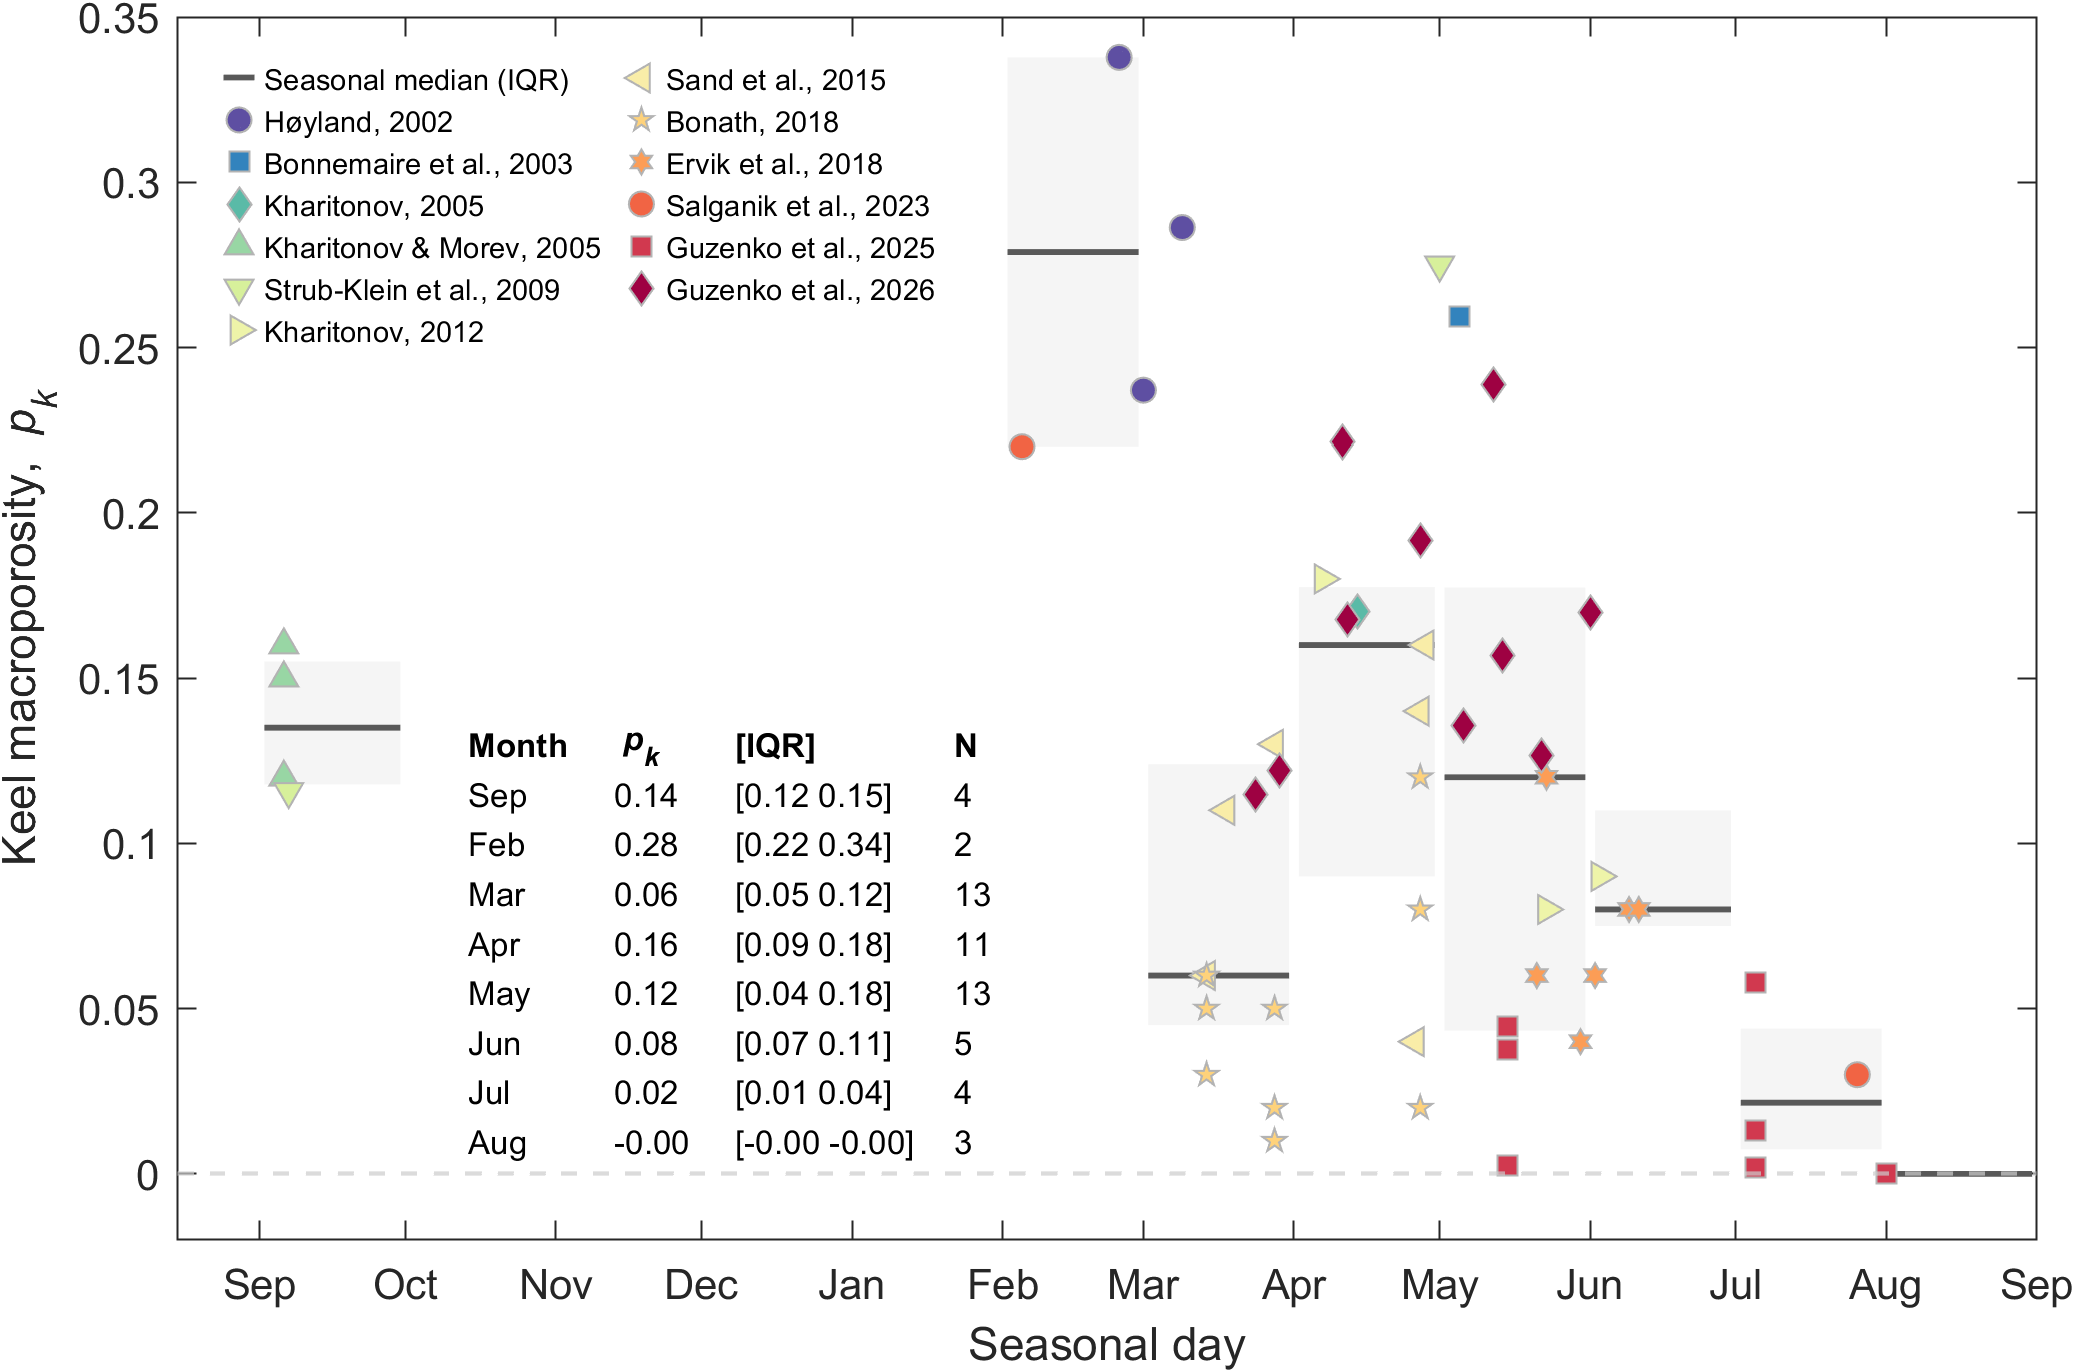
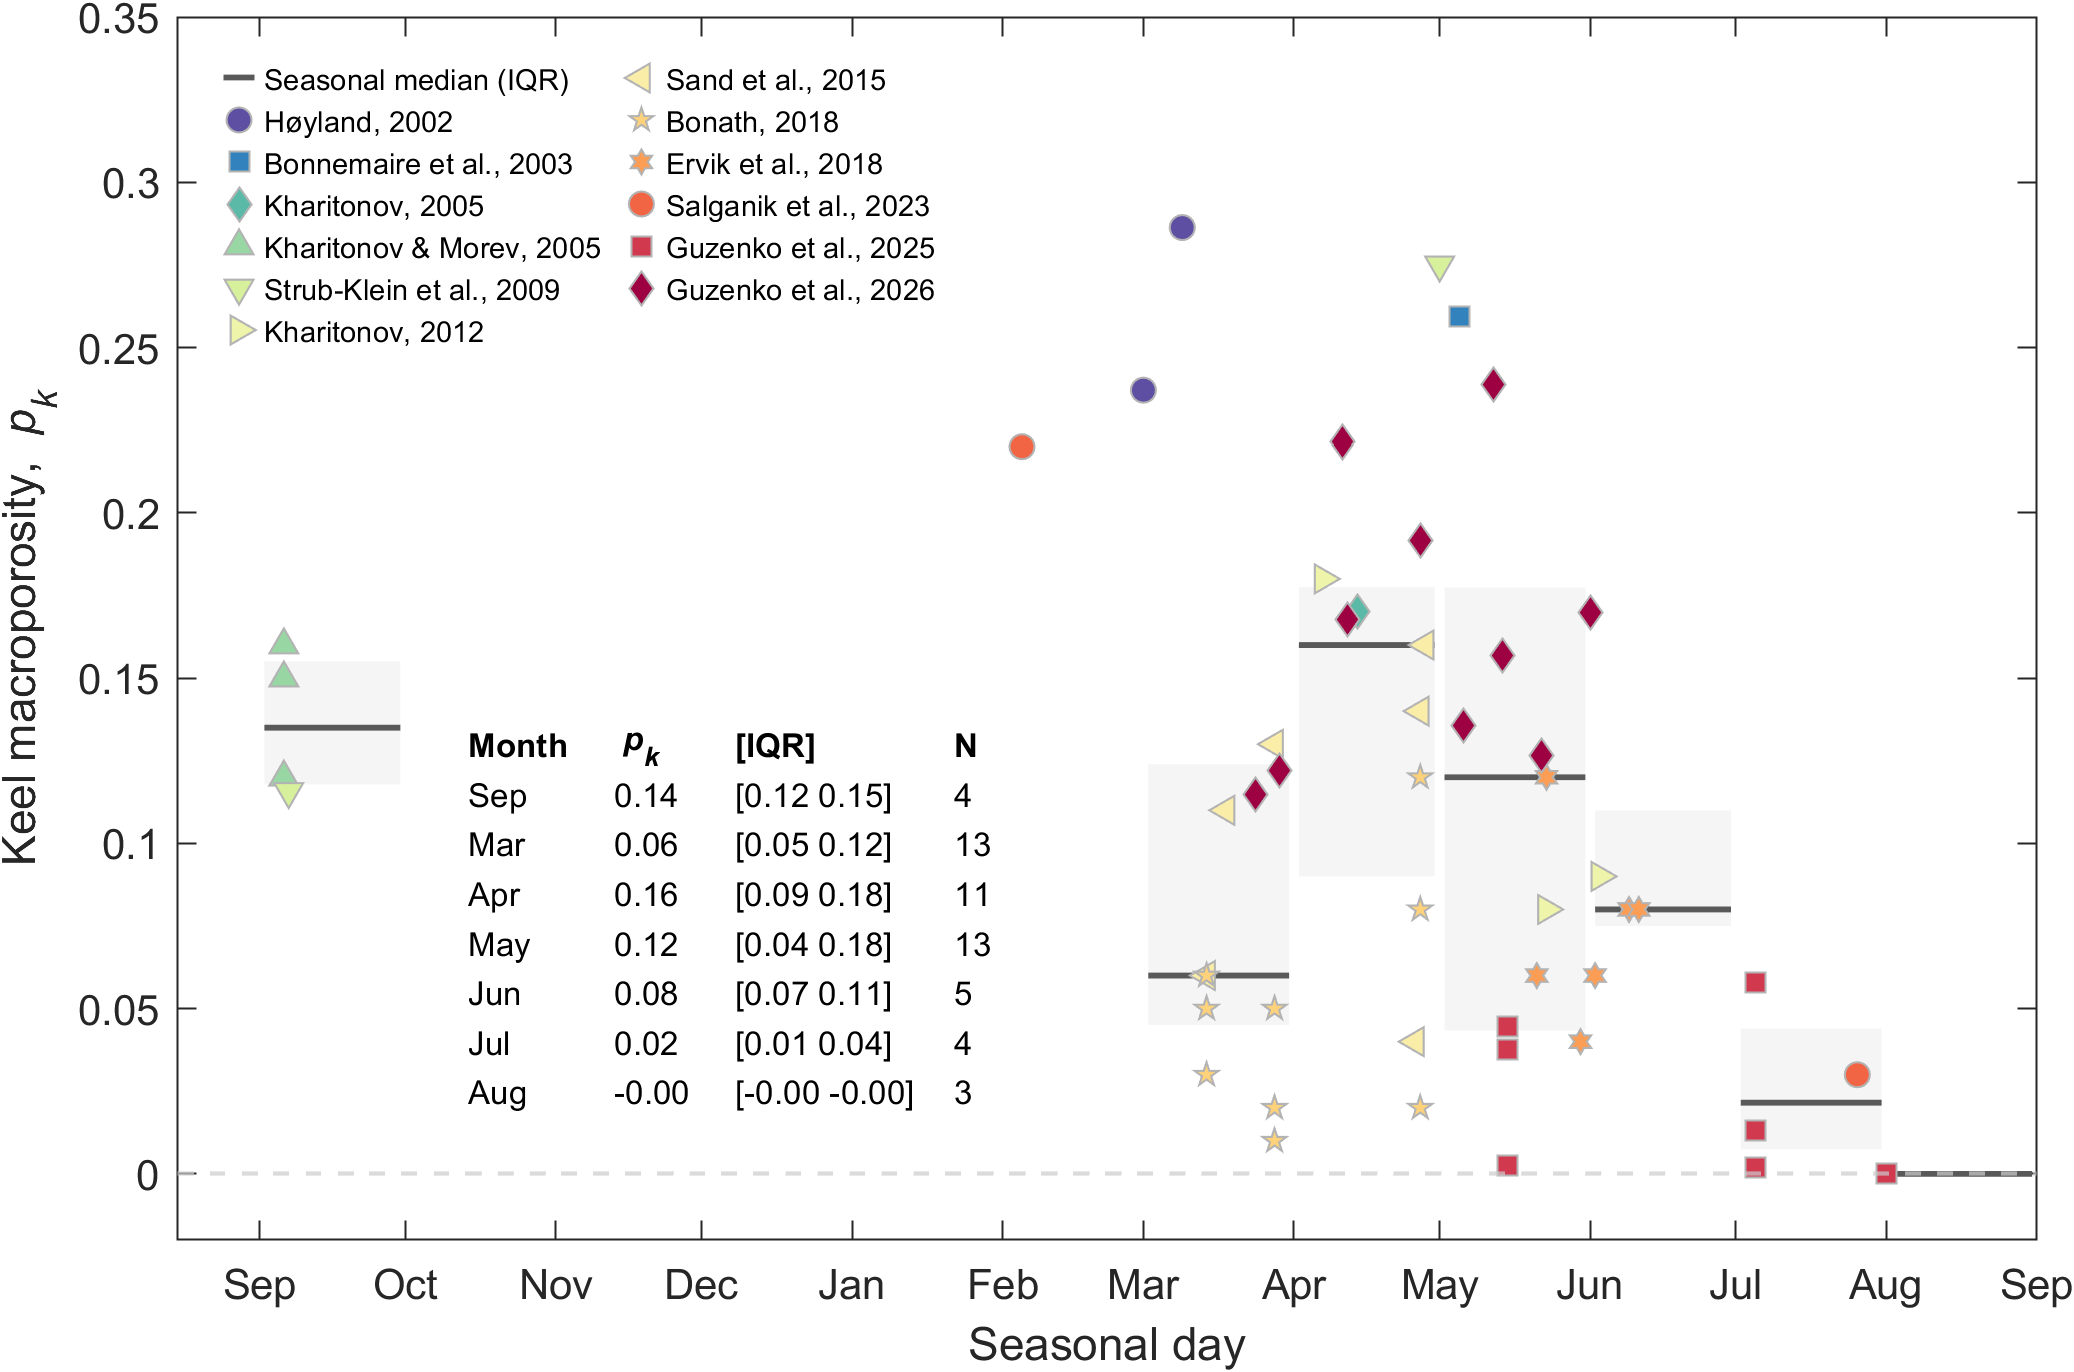
Add files via upload
Fixed bug: ridge data from the Baltic Sea was removed.

diff --git a/Keel_porosity_historical.m b/Keel_porosity_historical.m
@@ -16,11 +16,11 @@ meta.author = "Høyland, 2002";
 meta.name = "Simulations of the consolidation process in first-year sea ice ridges";
 meta.url = "https://doi.org/10.1016/S0165-232X(02)00002-2";
 
-t  = datetime({'02-Mar-1998','10-Mar-1999','25-Feb-1999'});
-hi = [0.95 0.70 0.47];       % initial level ice thickness, m
-hc = [1.19 0.91 0.50];       % initial consolidated layer thickness, m
-hk = [4.4 5.0 4.5];          % keel depth, m
-pr = [0.325 0.35 0.38];      % rubble porosity
+t  = datetime({'02-Mar-1998','10-Mar-1999'});
+hi = [0.95 0.70];       % initial level ice thickness, m
+hc = [1.19 0.91];       % initial consolidated layer thickness, m
+hk = [4.4  5.0];          % keel depth, m
+pr = [0.325 0.35];      % rubble porosity
 pk = pr .* (hk - hc) ./ hk;  % keel-average porosity incl. CL
 
 T = addData(T,t,pk,meta);
@@ -184,7 +184,7 @@ tBinEdges = [datetime(2019,8,15), ...
              datetime(2020,1:8,1), ...
              datetime(2020,9,1)]; 
 binEdges = days(tBinEdges - t0);
-minN  = 2;
+minN  = 3;
 gap   = 1;   % visual gap between monthly boxes, days
 nBins = numel(binEdges) - 1;
 
